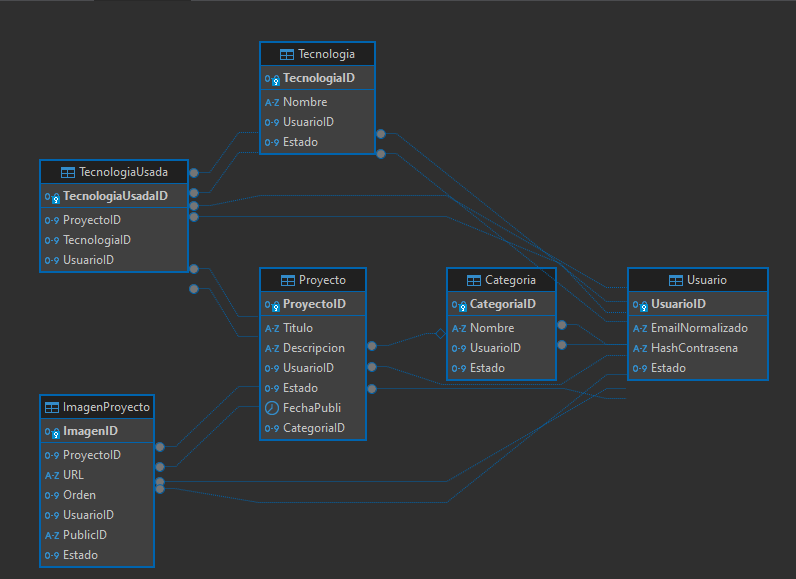
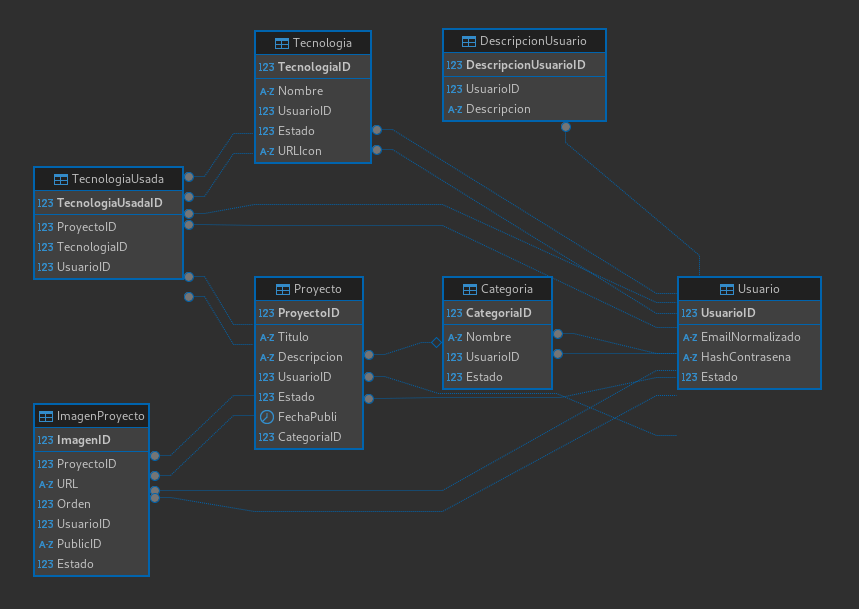
BD - FRONT

diff --git a/Portafolio/wwwroot/css/ProyectoDetalles.css b/Portafolio/wwwroot/css/ProyectoDetalles.css
@@ -14,3 +14,11 @@
 .card {
   box-shadow: 0px 0px 5px 1px red;
 }
+
+.badge {
+  font-size: 1em;
+  padding: 5 px;
+  margin: 5px;
+  border-radius: 5px;
+  color: black;
+}

diff --git a/Portafolio/Servicios/RepositorioTecnologia.cs b/Portafolio/Servicios/RepositorioTecnologia.cs
@@ -9,7 +9,7 @@ namespace Portafolio.Servicios
         Task<int> Crear(Tecnologia tecnologia);
         Task EditarTecnologia(Tecnologia tecnologia);
         Task EliminarTecnologia(int CategoriaID, int UsuarioID);
-        Task<bool> ExisteTecnologia(string nombre, int UsuarioID);
+        Task<bool> ExisteTecnologia(string Nombre, int TecnologiaID, int UsuarioID);
         Task<IEnumerable<Tecnologia>> ObtenerTecnologiasActivas(int UsuarioID);
         Task<IEnumerable<Tecnologia>> ObtenerTecnologiasInactivas(int UsuarioID);
         Task<Tecnologia> ObtenerTecnologiasPorID(int TecnologiaID, int UsuarioID);
@@ -34,8 +34,8 @@ namespace Portafolio.Servicios
         {
             using var connection = new SqlConnection(connectionString);
 
-            string query = @"INSERT INTO Tecnologia (Nombre, UsuarioID, Estado) 
-                             VALUES (@Nombre, @UsuarioID, 1);
+            string query = @"INSERT INTO Tecnologia (Nombre, URLIcon, UsuarioID, Estado) 
+                             VALUES (@Nombre, @URLIcon, @UsuarioID, 1);
                              SELECT SCOPE_IDENTITY();";
 
             var id = await connection.QuerySingleAsync<int>(query, tecnologia);
@@ -50,7 +50,7 @@ namespace Portafolio.Servicios
         {
             using var connection = new SqlConnection(connectionString);
 
-            string query = @"SELECT TecnologiaID, Nombre, UsuarioID, Estado 
+            string query = @"SELECT TecnologiaID, Nombre, URLIcon, UsuarioID, Estado 
                             FROM Tecnologia
                             WHERE UsuarioID = @UsuarioID AND Estado = 1;";
 
@@ -67,7 +67,7 @@ namespace Portafolio.Servicios
         {
             using var connection = new SqlConnection(connectionString);
 
-            string query = @"SELECT TecnologiaID, Nombre, UsuarioID, Estado 
+            string query = @"SELECT TecnologiaID, Nombre, URLIcon, UsuarioID, Estado 
                             FROM Tecnologia
                             WHERE UsuarioID = @UsuarioID AND Estado = 0;";
 
@@ -85,7 +85,7 @@ namespace Portafolio.Servicios
         {
             using var connection = new SqlConnection(connectionString);
 
-            string query = @"SELECT TecnologiaID, Nombre, UsuarioID, Estado 
+            string query = @"SELECT TecnologiaID, Nombre, URLIcon, UsuarioID, Estado 
                             FROM Tecnologia 
                             WHERE TecnologiaID = @TecnologiaID AND UsuarioID = @UsuarioID;";
 
@@ -134,10 +134,10 @@ namespace Portafolio.Servicios
             using var connection = new SqlConnection(connectionString);
 
             string query = @"UPDATE Tecnologia 
-                            SET Nombre = @Nombre
+                            SET Nombre = @Nombre, URLIcon = @URLIcon
                             WHERE TecnologiaID = @TecnologiaID AND UsuarioID = @UsuarioID AND Estado = 1;";
 
-            await connection.ExecuteAsync(query, tecnologia);  
+            await connection.ExecuteAsync(query, tecnologia);
         }
         /// <summary>
         /// Verifica si una tecnología con un nombre específico ya existe para un usuario.
@@ -145,13 +145,14 @@ namespace Portafolio.Servicios
         /// <param name="nombre">Nombre de la tecnología a buscar.</param>
         /// <param name="UsuarioID">Identificador del propietario de la tecnología.</param>
         /// <returns>Un valor booleano que indica si existe o no la tecnología.</returns>
-        public async Task<bool> ExisteTecnologia(string nombre, int UsuarioID)
+        public async Task<bool> ExisteTecnologia(string Nombre, int TecnologiaID, int UsuarioID)
         {
             using var connection = new SqlConnection(connectionString);
 
-            string query = @"SELECT 1 FROM Tecnologia WHERE Nombre = @Nombre AND UsuarioID = @UsuarioID;";
+            string query = @"SELECT 1 FROM Tecnologia 
+                            WHERE Nombre = @Nombre AND TecnologiaID <> @TecnologiaID AND UsuarioID = @UsuarioID;";
 
-            var existe = await connection.QueryFirstOrDefaultAsync<int>(query, new { nombre, UsuarioID });
+            var existe = await connection.QueryFirstOrDefaultAsync<int>(query, new { Nombre, TecnologiaID, UsuarioID });
 
             return existe == 1;
         }

diff --git a/Portafolio/Servicios/RepositorioTecnologiaUsada.cs b/Portafolio/Servicios/RepositorioTecnologiaUsada.cs
@@ -9,7 +9,7 @@ namespace Portafolio.Servicios
     public interface IRepositorioTecnologiaUsada
     {
         Task<int> Crear(int ProyectoID, int TecnologiaID, int UsuarioID);
-        Task EliminarTecnologia(int TecnologiaID,int ProyectoID, int UsuarioID);
+        Task EliminarTecnologia(int TecnologiaID, int ProyectoID, int UsuarioID);
         Task<IEnumerable<Tecnologia>> ObtenerTecnologiasProyecto(int ProyectoID, int UsuarioID);
         Task<IEnumerable<Tecnologia>> ObtenerTecnologiasProyectoDetalles(int ProyectoID);
     }
@@ -47,14 +47,15 @@ namespace Portafolio.Servicios
         /// <param name="ProyectoID"></param>
         /// <param name="UsuarioID"></param>
         /// <returns></returns>
-        public async Task<IEnumerable<Tecnologia>> ObtenerTecnologiasProyecto(int ProyectoID, int UsuarioID) 
+        public async Task<IEnumerable<Tecnologia>> ObtenerTecnologiasProyecto(int ProyectoID, int UsuarioID)
         {
             using var connection = new SqlConnection(connectionString);
 
-            string query = @"SELECT t.TecnologiaID, t.Nombre, t.Estado, t.UsuarioID From Tecnologia t 
+            string query = @"SELECT t.TecnologiaID, t.Nombre, t.URLIcon, t.Estado, t.UsuarioID 
+                            From Tecnologia t 
                             JOIN TecnologiaUsada tu ON t.TecnologiaID = tu.TecnologiaID
                             WHERE tu.ProyectoID = @ProyectoID AND t.UsuarioID = @UsuarioID AND tu.UsuarioID = @UsuarioID;";
-            
+
             var tecnologias = await connection.QueryAsync<Tecnologia>(query, new { ProyectoID, UsuarioID });
             return tecnologias;
         }
@@ -67,7 +68,8 @@ namespace Portafolio.Servicios
         {
             using var connection = new SqlConnection(connectionString);
 
-            string query = @"SELECT t.TecnologiaID, t.Nombre, t.Estado, t.UsuarioID From Tecnologia t 
+            string query = @"SELECT t.TecnologiaID, t.Nombre, t.URLIcon, t.Estado, t.UsuarioID
+							From Tecnologia t 
                             JOIN TecnologiaUsada tu ON t.TecnologiaID = tu.TecnologiaID
                             WHERE tu.ProyectoID = @ProyectoID;";
 
@@ -81,7 +83,8 @@ namespace Portafolio.Servicios
         /// <param name="ProyectoID"></param>
         /// <param name="UsuarioID"></param>
         /// <returns></returns>
-        public async Task EliminarTecnologia(int TecnologiaID,int ProyectoID, int UsuarioID) {
+        public async Task EliminarTecnologia(int TecnologiaID, int ProyectoID, int UsuarioID)
+        {
             using var connection = new SqlConnection(connectionString);
 
             var parametros = new { TecnologiaID, ProyectoID, UsuarioID };

diff --git a/Portafolio/Controllers/TecnologiaController.cs b/Portafolio/Controllers/TecnologiaController.cs
@@ -145,10 +145,10 @@ namespace Portafolio.Controllers
         /// <param name="nombre">Nombre de la tecnología a verificar.</param>
         /// <returns>Un valor booleano en formato JSON que indica si la tecnología ya existe.</returns>
         [HttpGet]
-        public async Task<IActionResult> VerificarExistenciaTecnologia(string nombre)
+        public async Task<IActionResult> VerificarExistenciaTecnologia(string Nombre, int TecnologiaID)
         {
             var UsuarioID = servicioUsuario.ObtenerUsuarioId();
-            var yaExisteTecnologia = await repositorioTecnologia.ExisteTecnologia(nombre, UsuarioID);
+            var yaExisteTecnologia = await repositorioTecnologia.ExisteTecnologia(Nombre, TecnologiaID, UsuarioID);
 
             if (yaExisteTecnologia)
             {

diff --git a/Portafolio/Controllers/CvController.cs b/Portafolio/Controllers/CvController.cs
@@ -14,8 +14,9 @@ namespace Portafolio.Controllers
         }
 
 
-        public IActionResult Subir() {
-            return View();   
+        public IActionResult Subir()
+        {
+            return View();
         }
 
         [HttpPost]
@@ -69,9 +70,10 @@ namespace Portafolio.Controllers
             }
 
             var mimeType = "application/pdf";
-            var fileName = Path.GetFileName(filePath);
+            Response.Headers.ContentDisposition = "inline; filename=cv.pdf"; // Especifica inline y un nombre de archivo
 
-            return PhysicalFile(filePath, mimeType, fileName);
+
+            return PhysicalFile(filePath, mimeType, enableRangeProcessing: true); // Habilita la visualización en el navegador
         }
 
     }

diff --git a/Portafolio/Models/Tecnologia.cs b/Portafolio/Models/Tecnologia.cs
@@ -12,12 +12,14 @@ namespace Portafolio.Models
 
         [Required]
         [StringLength(20, MinimumLength = 3, ErrorMessage = "El {0} debe tener como minimo {2} y maximo {1} caracteres")]
-        [Remote(action: "VerificarExistenciaTecnologia", controller:"Tecnologia")]
+        [Remote(action: "VerificarExistenciaTecnologia", controller: "Tecnologia", AdditionalFields = "TecnologiaID")]
         public string Nombre { get; set; }
+
+        public string URLIcon { get; set; }
 
         [Required]
         public bool Estado { get; set; }
-        
+
         /// <summary>
         /// Cada tecnologia le pertence a un usuario y solo el puede modificar y eliminar la misma. 
         /// </summary>

diff --git a/Portafolio/Servicios/RepositorioProyecto.cs b/Portafolio/Servicios/RepositorioProyecto.cs
@@ -207,7 +207,7 @@ namespace Portafolio.Servicios
         {
             using var connection = new SqlConnection(connectionString);
 
-            string query = @"SELECT TOP (3) ProyectoID, Titulo, FechaPubli, Descripcion, UsuarioID, CategoriaID, Estado, DATEDIFF(MONTH, FechaPubli, GETDATE()) as Antiguedad
+            string query = @"SELECT TOP (3) ProyectoID, Titulo, FechaPubli, Descripcion, UsuarioID, CategoriaID, Estado, DATEDIFF(MONTH, FechaPubli, GETDATE()) as Antiguedad, UrlGitHub, UrlDesplegado
                             FROM Proyecto
                             WHERE Estado = 1
                             ORDER BY FechaPubli DESC;";
